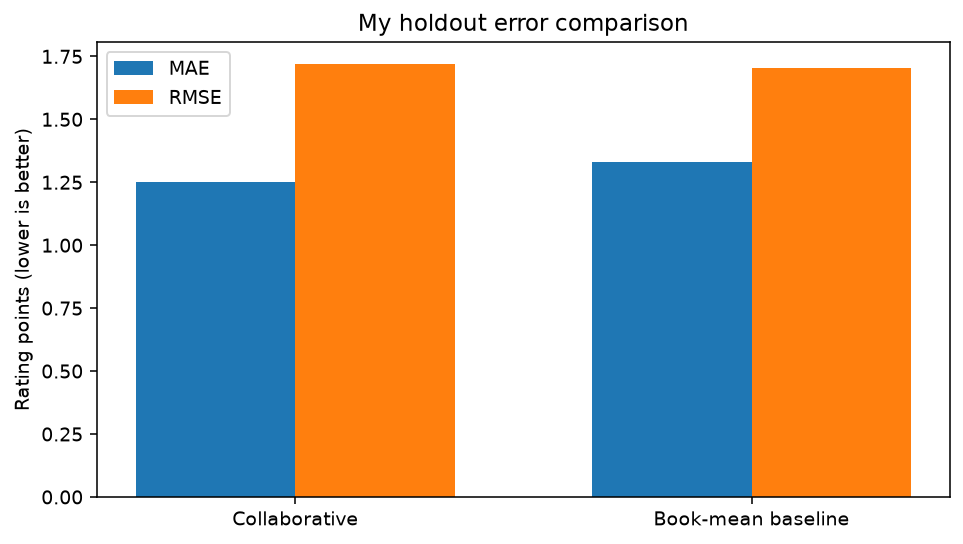
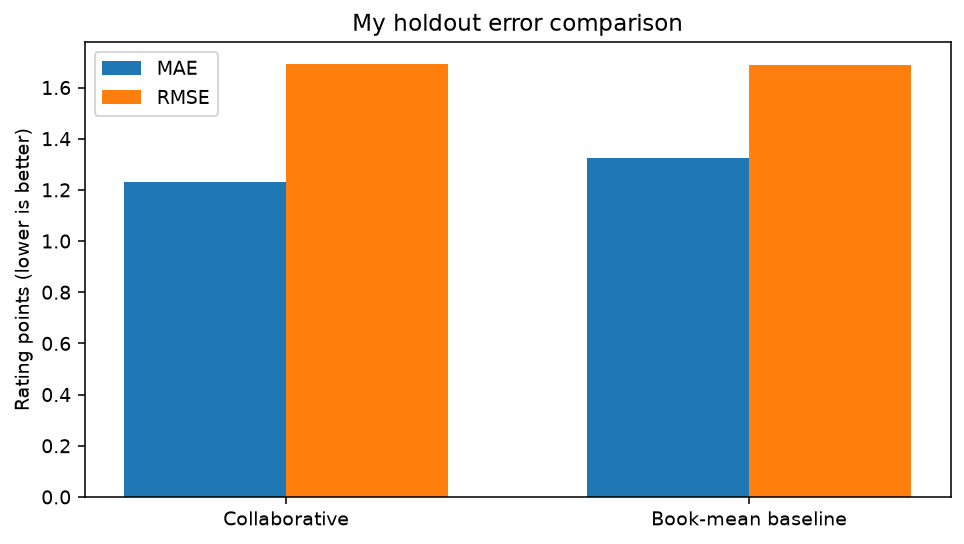
Record authentic Book-Crossing recommendation results

diff --git a/data/results.js b/data/results.js
@@ -1,1 +1,1 @@
-window.BOOK_ENGINE_RESULTS = {"data_source": "Book-Crossing (local class files if present; otherwise the Microsoft Learn public copy)", "raw_counts": {"Books.csv": 271360, "Ratings.csv": 1149780, "Users.csv": 278858}, "explicit_linked": 383841, "implicit_interactions": 716109, "content_candidate_books": 6000, "collaborative_training_rows": 36533, "collaborative_test_rows": 9134, "collaborative_evaluable_rows": 9134, "collaborative_neighbor_coverage": 0.4074, "collaborative_MAE": 1.2509, "collaborative_RMSE": 1.7192, "baseline_MAE": 1.3316, "baseline_RMSE": 1.7057, "top_books": [{"title": "The Two Towers (The Lord of the Rings, Part 2)", "author": "J. R. R. Tolkien", "rating": 9.72, "count": 25}, {"title": "84 Charing Cross Road", "author": "Helene Hanff", "rating": 9.46, "count": 28}, {"title": "The Return of the King (The Lord of the Rings, Part 3)", "author": "J.R.R. TOLKIEN", "rating": 9.4, "count": 77}, {"title": "Where the Sidewalk Ends : Poems and Drawings", "author": "Shel Silverstein", "rating": 9.4, "count": 25}, {"title": "The Cat in the Hat", "author": "Dr. Seuss", "rating": 9.31, "count": 32}, {"title": "Love You Forever", "author": "Robert N. Munsch", "rating": 9.28, "count": 25}, {"title": "Harry Potter and the Goblet of Fire (Book 4)", "author": "J. K. Rowling", "rating": 9.26, "count": 137}, {"title": "Weirdos From Another Planet!", "author": "Bill Watterson", "rating": 9.24, "count": 25}, {"title": "Lonesome Dove", "author": "Larry McMurtry", "rating": 9.21, "count": 33}, {"title": "Harry Potter and the Sorcerer's Stone (Book 1)", "author": "J. K. Rowling", "rating": 9.21, "count": 53}, {"title": "The Grapes of Wrath", "author": "John Steinbeck", "rating": 9.13, "count": 31}, {"title": "The Two Towers (The Lord of the Rings, Part 2)", "author": "J.R.R. TOLKIEN", "rating": 9.12, "count": 83}, {"title": "The Time Traveler's Wife", "author": "Audrey Niffenegger", "rating": 9.12, "count": 25}, {"title": "The Fellowship of the Ring (The Lord of the Rings, Part 1)", "author": "J. R. R. Tolkien", "rating": 9.09, "count": 43}, {"title": "Harry Potter and the Prisoner of Azkaban (Book 3)", "author": "J. K. Rowling", "rating": 9.08, "count": 133}, {"title": "Charlotte's Web (Trophy Newbery)", "author": "E. B. White", "rating": 9.07, "count": 68}, {"title": "Illusions", "author": "Richard Bach", "rating": 9.07, "count": 29}, {"title": "Griffin &amp; Sabine: An Extraordinary Correspondence", "author": "Nick Bantock", "rating": 9.06, "count": 48}, {"title": "The Second Summer of the Sisterhood", "author": "ANN BRASHARES", "rating": 9.04, "count": 25}, {"title": "To Kill a Mockingbird", "author": "Harper Lee", "rating": 9.04, "count": 26}], "top_authors": [{"author": "Maud Hart Lovelace", "rating": 9.29, "count": 52}, {"author": "Art Spiegelman", "rating": 9.24, "count": 50}, {"author": "Bill Watterson", "rating": 9.19, "count": 333}, {"author": "Dr. Seuss", "rating": 9.18, "count": 207}, {"author": "Shel Silverstein", "rating": 9.16, "count": 126}, {"author": "Antoine de Saint-Exup\u00c3\u00c2\u00a9ry", "rating": 9.03, "count": 171}, {"author": "Bradley Trevor Greive", "rating": 8.99, "count": 84}, {"author": "Harper Lee", "rating": 8.99, "count": 281}, {"author": "J. K. Rowling", "rating": 8.97, "count": 1746}, {"author": "Clamp", "rating": 8.96, "count": 109}, {"author": "J.R.R. TOLKIEN", "rating": 8.9, "count": 498}, {"author": "L.M. MONTGOMERY", "rating": 8.89, "count": 218}, {"author": "L.M. Montgomery", "rating": 8.85, "count": 95}, {"author": "E. B. White", "rating": 8.85, "count": 156}, {"author": "WILLIAM GOLDMAN", "rating": 8.82, "count": 77}, {"author": "Nick Bantock", "rating": 8.77, "count": 163}, {"author": "MADELEINE L'ENGLE", "rating": 8.76, "count": 97}, {"author": "Betty Smith", "rating": 8.76, "count": 54}, {"author": "Anne Frank", "rating": 8.75, "count": 101}, {"author": "Lucy Maud Montgomery", "rating": 8.75, "count": 59}], "content_examples": [{"seed": "The Lovely Bones: A Novel", "matches": [{"title": "The Lovely Bones", "author": "Alice Sebold", "score": 0.7841}, {"title": "Lucky", "author": "Alice Sebold", "score": 0.7025}, {"title": "Lucky : A Memoir", "author": "Alice Sebold", "score": 0.6643}, {"title": "The Book Borrower: A Novel", "author": "Alice Mattison", "score": 0.3454}, {"title": "Darkness Peering", "author": "Alice Blanchard", "score": 0.2376}]}, {"seed": "Wild Animus", "matches": [{"title": "Rich Dad, Poor Dad: What the Rich Teach Their Kids About Money--That the Poor and Middle Class Do Not!", "author": "Robert T. Kiyosaki", "score": 0.5196}, {"title": "Filthy Rich", "author": "Dorothy Samuels", "score": 0.314}, {"title": "Texas Rich", "author": "FERN MICHAELS", "score": 0.2169}, {"title": "So Far", "author": "Kelsey Grammer", "score": 0.1706}, {"title": "Where the Wild Things Are (Caldecott Collection)", "author": "Maurice Sendak", "score": 0.1432}]}, {"seed": "The Da Vinci Code", "matches": [{"title": "El Codigo Da Vinci / The Da Vinci Code", "author": "Dan Brown", "score": 0.8793}, {"title": "Illuminati.", "author": "Dan Brown", "score": 0.6061}, {"title": "Deception Point", "author": "Dan Brown", "score": 0.5973}, {"title": "Angels &amp; Demons", "author": "Dan Brown", "score": 0.5579}, {"title": "Angels and Demons", "author": "Dan Brown", "score": 0.5385}]}, {"seed": "The Red Tent (Bestselling Backlist)", "matches": [{"title": "The Red Tent : A Novel", "author": "Anita Diamant", "score": 0.7435}, {"title": "Good Harbor: A Novel", "author": "Anita Diamant", "score": 0.5803}, {"title": "Good Harbor: A Novel", "author": "Anita Diamant", "score": 0.5793}, {"title": "Headlong (Bestselling Backlist)", "author": "Michael Frayn", "score": 0.377}, {"title": "Wonder Boys : A Novel (Bestselling Backlist)", "author": "Michael Chabon", "score": 0.1876}]}, {"seed": "Divine Secrets of the Ya-Ya Sisterhood: A Novel", "matches": [{"title": "Divine Secrets of the Ya-Ya Sisterhood : A Novel", "author": "Rebecca Wells", "score": 0.9223}, {"title": "The Divine Secrets of the Ya-Ya Sisterhood: A Novel", "author": "Rebecca Wells", "score": 0.9098}, {"title": "Little Altars Everywhere: A Novel", "author": "Rebecca Wells", "score": 0.6409}, {"title": "Little Altars Everywhere", "author": "Rebecca Wells", "score": 0.5436}, {"title": "Slave to Fashion : A Novel", "author": "REBECCA CAMPBELL", "score": 0.2612}]}], "collaborative_examples": [{"title": "The Fellowship of the Ring (The Lord of the Rings, Part 1)", "author": "J. R. R. Tolkien", "predicted": 10.0}, {"title": "Holidays on Ice : Stories", "author": "David Sedaris", "predicted": 9.57}, {"title": "Assassins: Assignment: Jerusalem, Target: Antichrist (Left Behind No. 6)", "author": "Tim Lahaye", "predicted": 9.39}, {"title": "Gap Creek: A Novel", "author": "Robert Morgan", "predicted": 9.37}, {"title": "Daisy Fay and the Miracle Man", "author": "Fannie Flagg", "predicted": 9.31}, {"title": "Man and Boy: A Novel", "author": "Tony Parsons", "predicted": 9.27}, {"title": "Harry Potter and the Order of the Phoenix (Book 5)", "author": "J. K. Rowling", "predicted": 9.19}, {"title": "Siddhartha", "author": "Hermann Hesse", "predicted": 9.18}], "graphs_saved": true};
+window.BOOK_ENGINE_RESULTS = {"data_source": "Book-Crossing (local class files if present; otherwise the Microsoft Learn public copy)", "raw_counts": {"Books.csv": 271360, "Ratings.csv": 1149780, "Users.csv": 278858}, "explicit_linked": 383841, "implicit_interactions": 716109, "content_candidate_books": 6000, "collaborative_training_rows": 36502, "collaborative_test_rows": 9126, "collaborative_evaluable_rows": 9126, "collaborative_neighbor_coverage": 0.4048, "collaborative_MAE": 1.2319, "collaborative_RMSE": 1.6914, "baseline_MAE": 1.3235, "baseline_RMSE": 1.6894, "top_books": [{"title": "The Two Towers (The Lord of the Rings, Part 2)", "author": "J. R. R. Tolkien", "rating": 9.72, "count": 25}, {"title": "84 Charing Cross Road", "author": "Helene Hanff", "rating": 9.46, "count": 28}, {"title": "The Return of the King (The Lord of the Rings, Part 3)", "author": "J.R.R. TOLKIEN", "rating": 9.4, "count": 77}, {"title": "Where the Sidewalk Ends : Poems and Drawings", "author": "Shel Silverstein", "rating": 9.4, "count": 25}, {"title": "The Cat in the Hat", "author": "Dr. Seuss", "rating": 9.31, "count": 32}, {"title": "Love You Forever", "author": "Robert N. Munsch", "rating": 9.28, "count": 25}, {"title": "Harry Potter and the Goblet of Fire (Book 4)", "author": "J. K. Rowling", "rating": 9.26, "count": 137}, {"title": "Weirdos From Another Planet!", "author": "Bill Watterson", "rating": 9.24, "count": 25}, {"title": "Lonesome Dove", "author": "Larry McMurtry", "rating": 9.21, "count": 33}, {"title": "Harry Potter and the Sorcerer's Stone (Book 1)", "author": "J. K. Rowling", "rating": 9.21, "count": 53}, {"title": "The Grapes of Wrath", "author": "John Steinbeck", "rating": 9.13, "count": 31}, {"title": "The Two Towers (The Lord of the Rings, Part 2)", "author": "J.R.R. TOLKIEN", "rating": 9.12, "count": 83}, {"title": "The Time Traveler's Wife", "author": "Audrey Niffenegger", "rating": 9.12, "count": 25}, {"title": "The Fellowship of the Ring (The Lord of the Rings, Part 1)", "author": "J. R. R. Tolkien", "rating": 9.09, "count": 43}, {"title": "Harry Potter and the Prisoner of Azkaban (Book 3)", "author": "J. K. Rowling", "rating": 9.08, "count": 133}, {"title": "Charlotte's Web (Trophy Newbery)", "author": "E. B. White", "rating": 9.07, "count": 68}, {"title": "Illusions", "author": "Richard Bach", "rating": 9.07, "count": 29}, {"title": "Griffin &amp; Sabine: An Extraordinary Correspondence", "author": "Nick Bantock", "rating": 9.06, "count": 48}, {"title": "The Second Summer of the Sisterhood", "author": "ANN BRASHARES", "rating": 9.04, "count": 25}, {"title": "To Kill a Mockingbird", "author": "Harper Lee", "rating": 9.04, "count": 26}], "top_authors": [{"author": "Maud Hart Lovelace", "rating": 9.29, "count": 52}, {"author": "Art Spiegelman", "rating": 9.24, "count": 50}, {"author": "Bill Watterson", "rating": 9.19, "count": 333}, {"author": "Dr. Seuss", "rating": 9.18, "count": 207}, {"author": "Shel Silverstein", "rating": 9.16, "count": 126}, {"author": "Antoine de Saint-Exup\u00c3\u00c2\u00a9ry", "rating": 9.03, "count": 171}, {"author": "Bradley Trevor Greive", "rating": 8.99, "count": 84}, {"author": "Harper Lee", "rating": 8.99, "count": 281}, {"author": "J. K. Rowling", "rating": 8.97, "count": 1746}, {"author": "Clamp", "rating": 8.96, "count": 109}, {"author": "J.R.R. TOLKIEN", "rating": 8.9, "count": 498}, {"author": "L.M. MONTGOMERY", "rating": 8.89, "count": 218}, {"author": "L.M. Montgomery", "rating": 8.85, "count": 95}, {"author": "E. B. White", "rating": 8.85, "count": 156}, {"author": "WILLIAM GOLDMAN", "rating": 8.82, "count": 77}, {"author": "Nick Bantock", "rating": 8.77, "count": 163}, {"author": "MADELEINE L'ENGLE", "rating": 8.76, "count": 97}, {"author": "Betty Smith", "rating": 8.76, "count": 54}, {"author": "Anne Frank", "rating": 8.75, "count": 101}, {"author": "Lucy Maud Montgomery", "rating": 8.75, "count": 59}], "content_examples": [{"seed": "The Lovely Bones: A Novel", "matches": [{"title": "The Lovely Bones", "author": "Alice Sebold", "score": 0.7841}, {"title": "Lucky", "author": "Alice Sebold", "score": 0.7025}, {"title": "Lucky : A Memoir", "author": "Alice Sebold", "score": 0.6643}, {"title": "The Book Borrower: A Novel", "author": "Alice Mattison", "score": 0.3454}, {"title": "Darkness Peering", "author": "Alice Blanchard", "score": 0.2376}]}, {"seed": "Wild Animus", "matches": [{"title": "Rich Dad, Poor Dad: What the Rich Teach Their Kids About Money--That the Poor and Middle Class Do Not!", "author": "Robert T. Kiyosaki", "score": 0.5196}, {"title": "Filthy Rich", "author": "Dorothy Samuels", "score": 0.314}, {"title": "Texas Rich", "author": "FERN MICHAELS", "score": 0.2169}, {"title": "So Far", "author": "Kelsey Grammer", "score": 0.1706}, {"title": "Where the Wild Things Are (Caldecott Collection)", "author": "Maurice Sendak", "score": 0.1432}]}, {"seed": "The Da Vinci Code", "matches": [{"title": "El Codigo Da Vinci / The Da Vinci Code", "author": "Dan Brown", "score": 0.8793}, {"title": "Illuminati.", "author": "Dan Brown", "score": 0.6061}, {"title": "Deception Point", "author": "Dan Brown", "score": 0.5973}, {"title": "Angels &amp; Demons", "author": "Dan Brown", "score": 0.5579}, {"title": "Angels and Demons", "author": "Dan Brown", "score": 0.5385}]}, {"seed": "The Red Tent (Bestselling Backlist)", "matches": [{"title": "The Red Tent : A Novel", "author": "Anita Diamant", "score": 0.7435}, {"title": "Good Harbor: A Novel", "author": "Anita Diamant", "score": 0.5803}, {"title": "Good Harbor: A Novel", "author": "Anita Diamant", "score": 0.5793}, {"title": "Headlong (Bestselling Backlist)", "author": "Michael Frayn", "score": 0.377}, {"title": "Wonder Boys : A Novel (Bestselling Backlist)", "author": "Michael Chabon", "score": 0.1876}]}, {"seed": "Divine Secrets of the Ya-Ya Sisterhood: A Novel", "matches": [{"title": "Divine Secrets of the Ya-Ya Sisterhood : A Novel", "author": "Rebecca Wells", "score": 0.9223}, {"title": "The Divine Secrets of the Ya-Ya Sisterhood: A Novel", "author": "Rebecca Wells", "score": 0.9098}, {"title": "Little Altars Everywhere: A Novel", "author": "Rebecca Wells", "score": 0.6409}, {"title": "Little Altars Everywhere", "author": "Rebecca Wells", "score": 0.5436}, {"title": "Slave to Fashion : A Novel", "author": "REBECCA CAMPBELL", "score": 0.2612}]}], "collaborative_examples": [{"title": "Brave New World", "author": "Aldous Huxley", "predicted": 10.0}, {"title": "Dharma Bums", "author": "Jack Kerouac", "predicted": 9.58}, {"title": "Man and Boy: A Novel", "author": "Tony Parsons", "predicted": 9.53}, {"title": "Born in Shame", "author": "Nora Roberts", "predicted": 9.53}, {"title": "Brave New World", "author": "Aldous Huxley", "predicted": 9.4}, {"title": "The Chamber", "author": "John Grisham", "predicted": 9.38}, {"title": "Tears of the Moon (Irish Trilogy)", "author": "Nora Roberts", "predicted": 9.28}, {"title": "Portrait in Death", "author": "Nora Roberts", "predicted": 9.24}], "graphs_saved": true};
